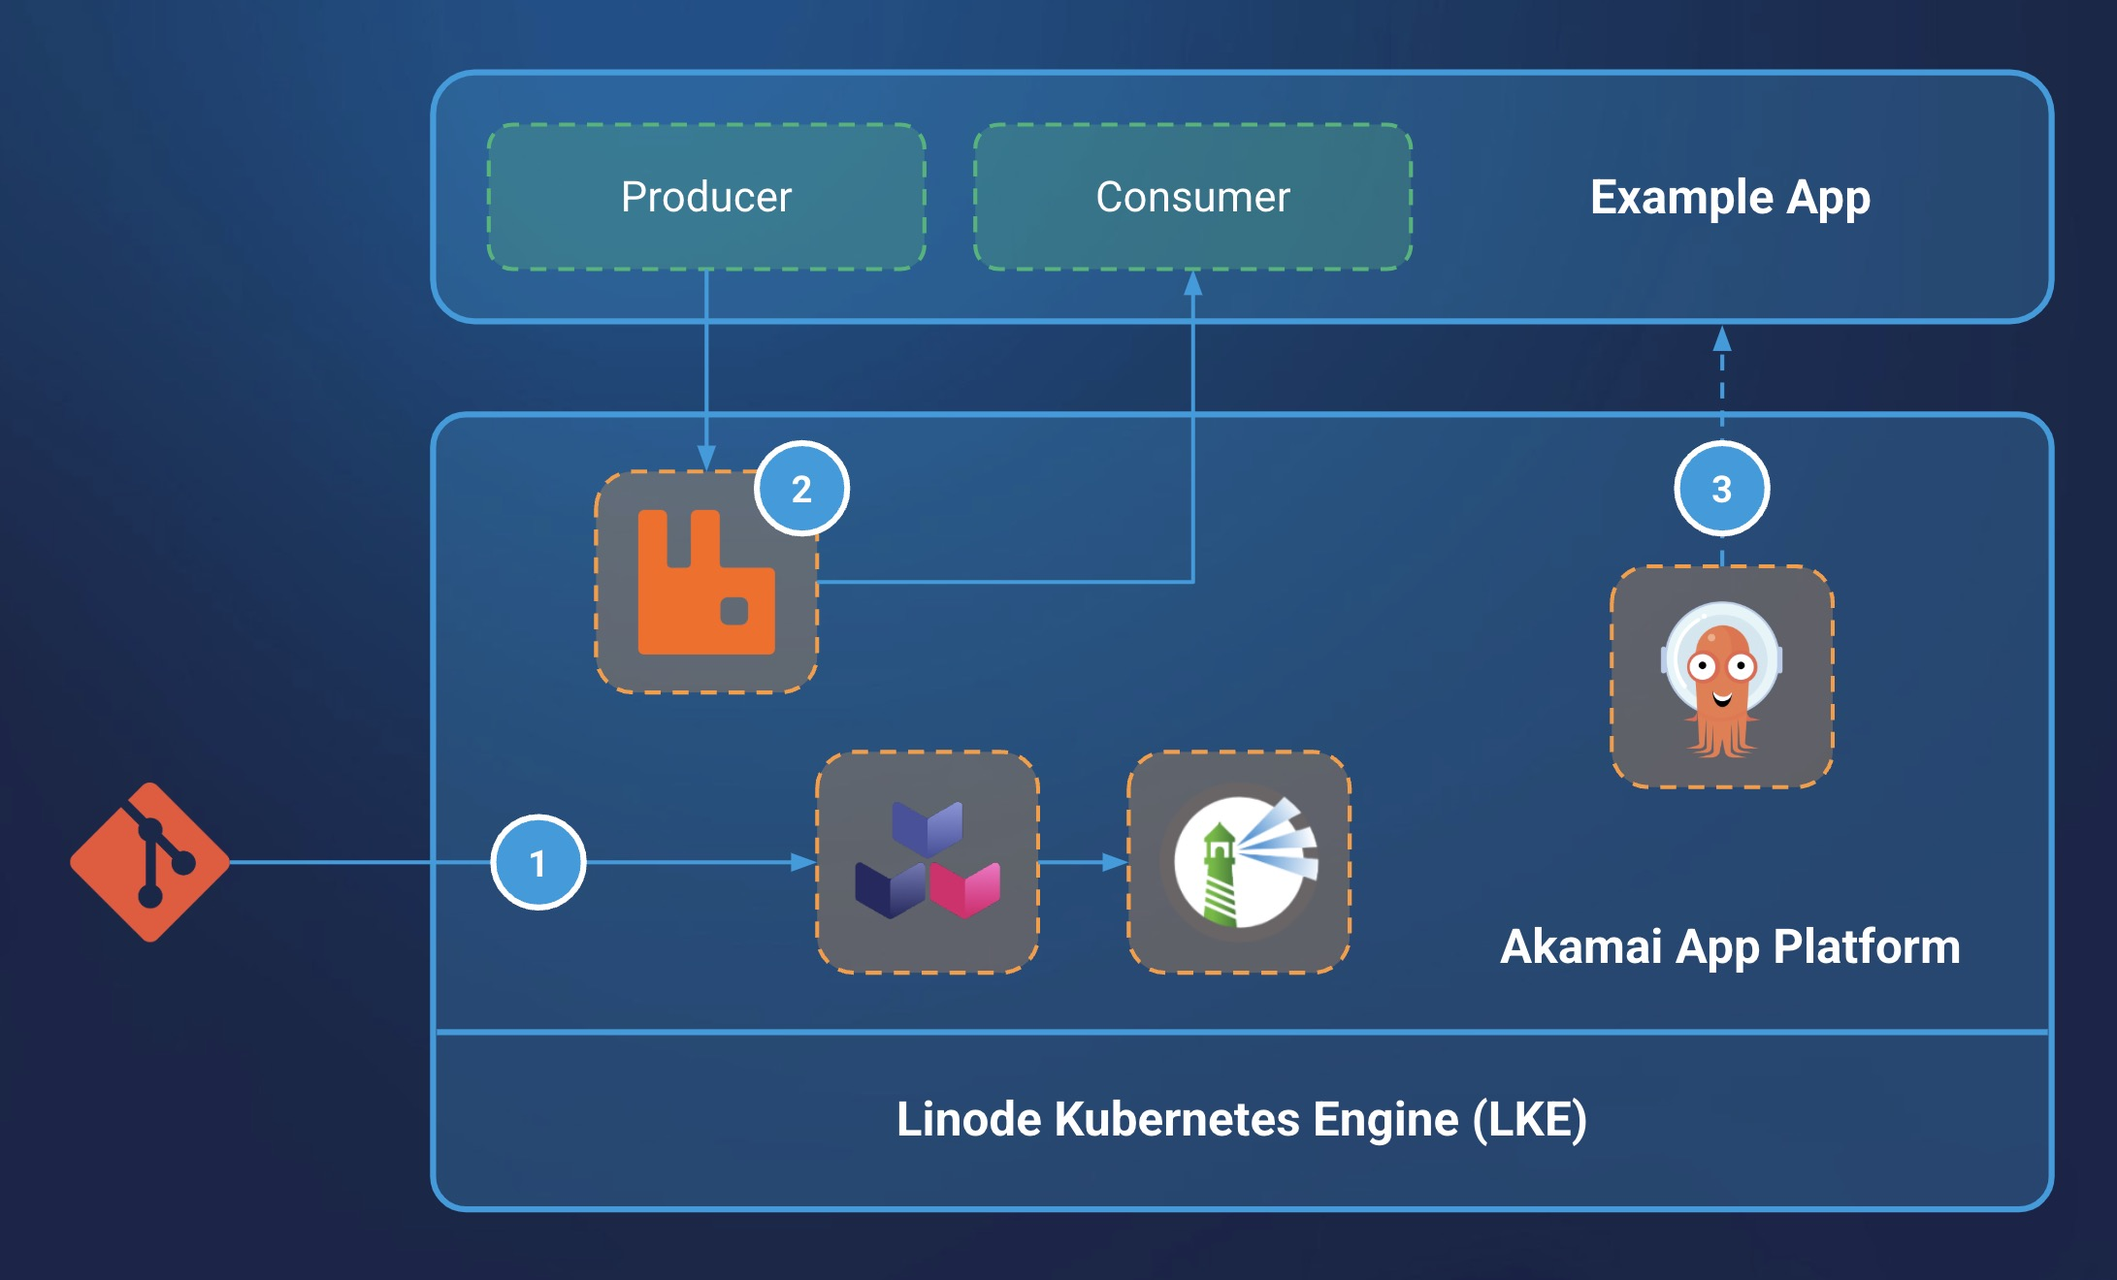
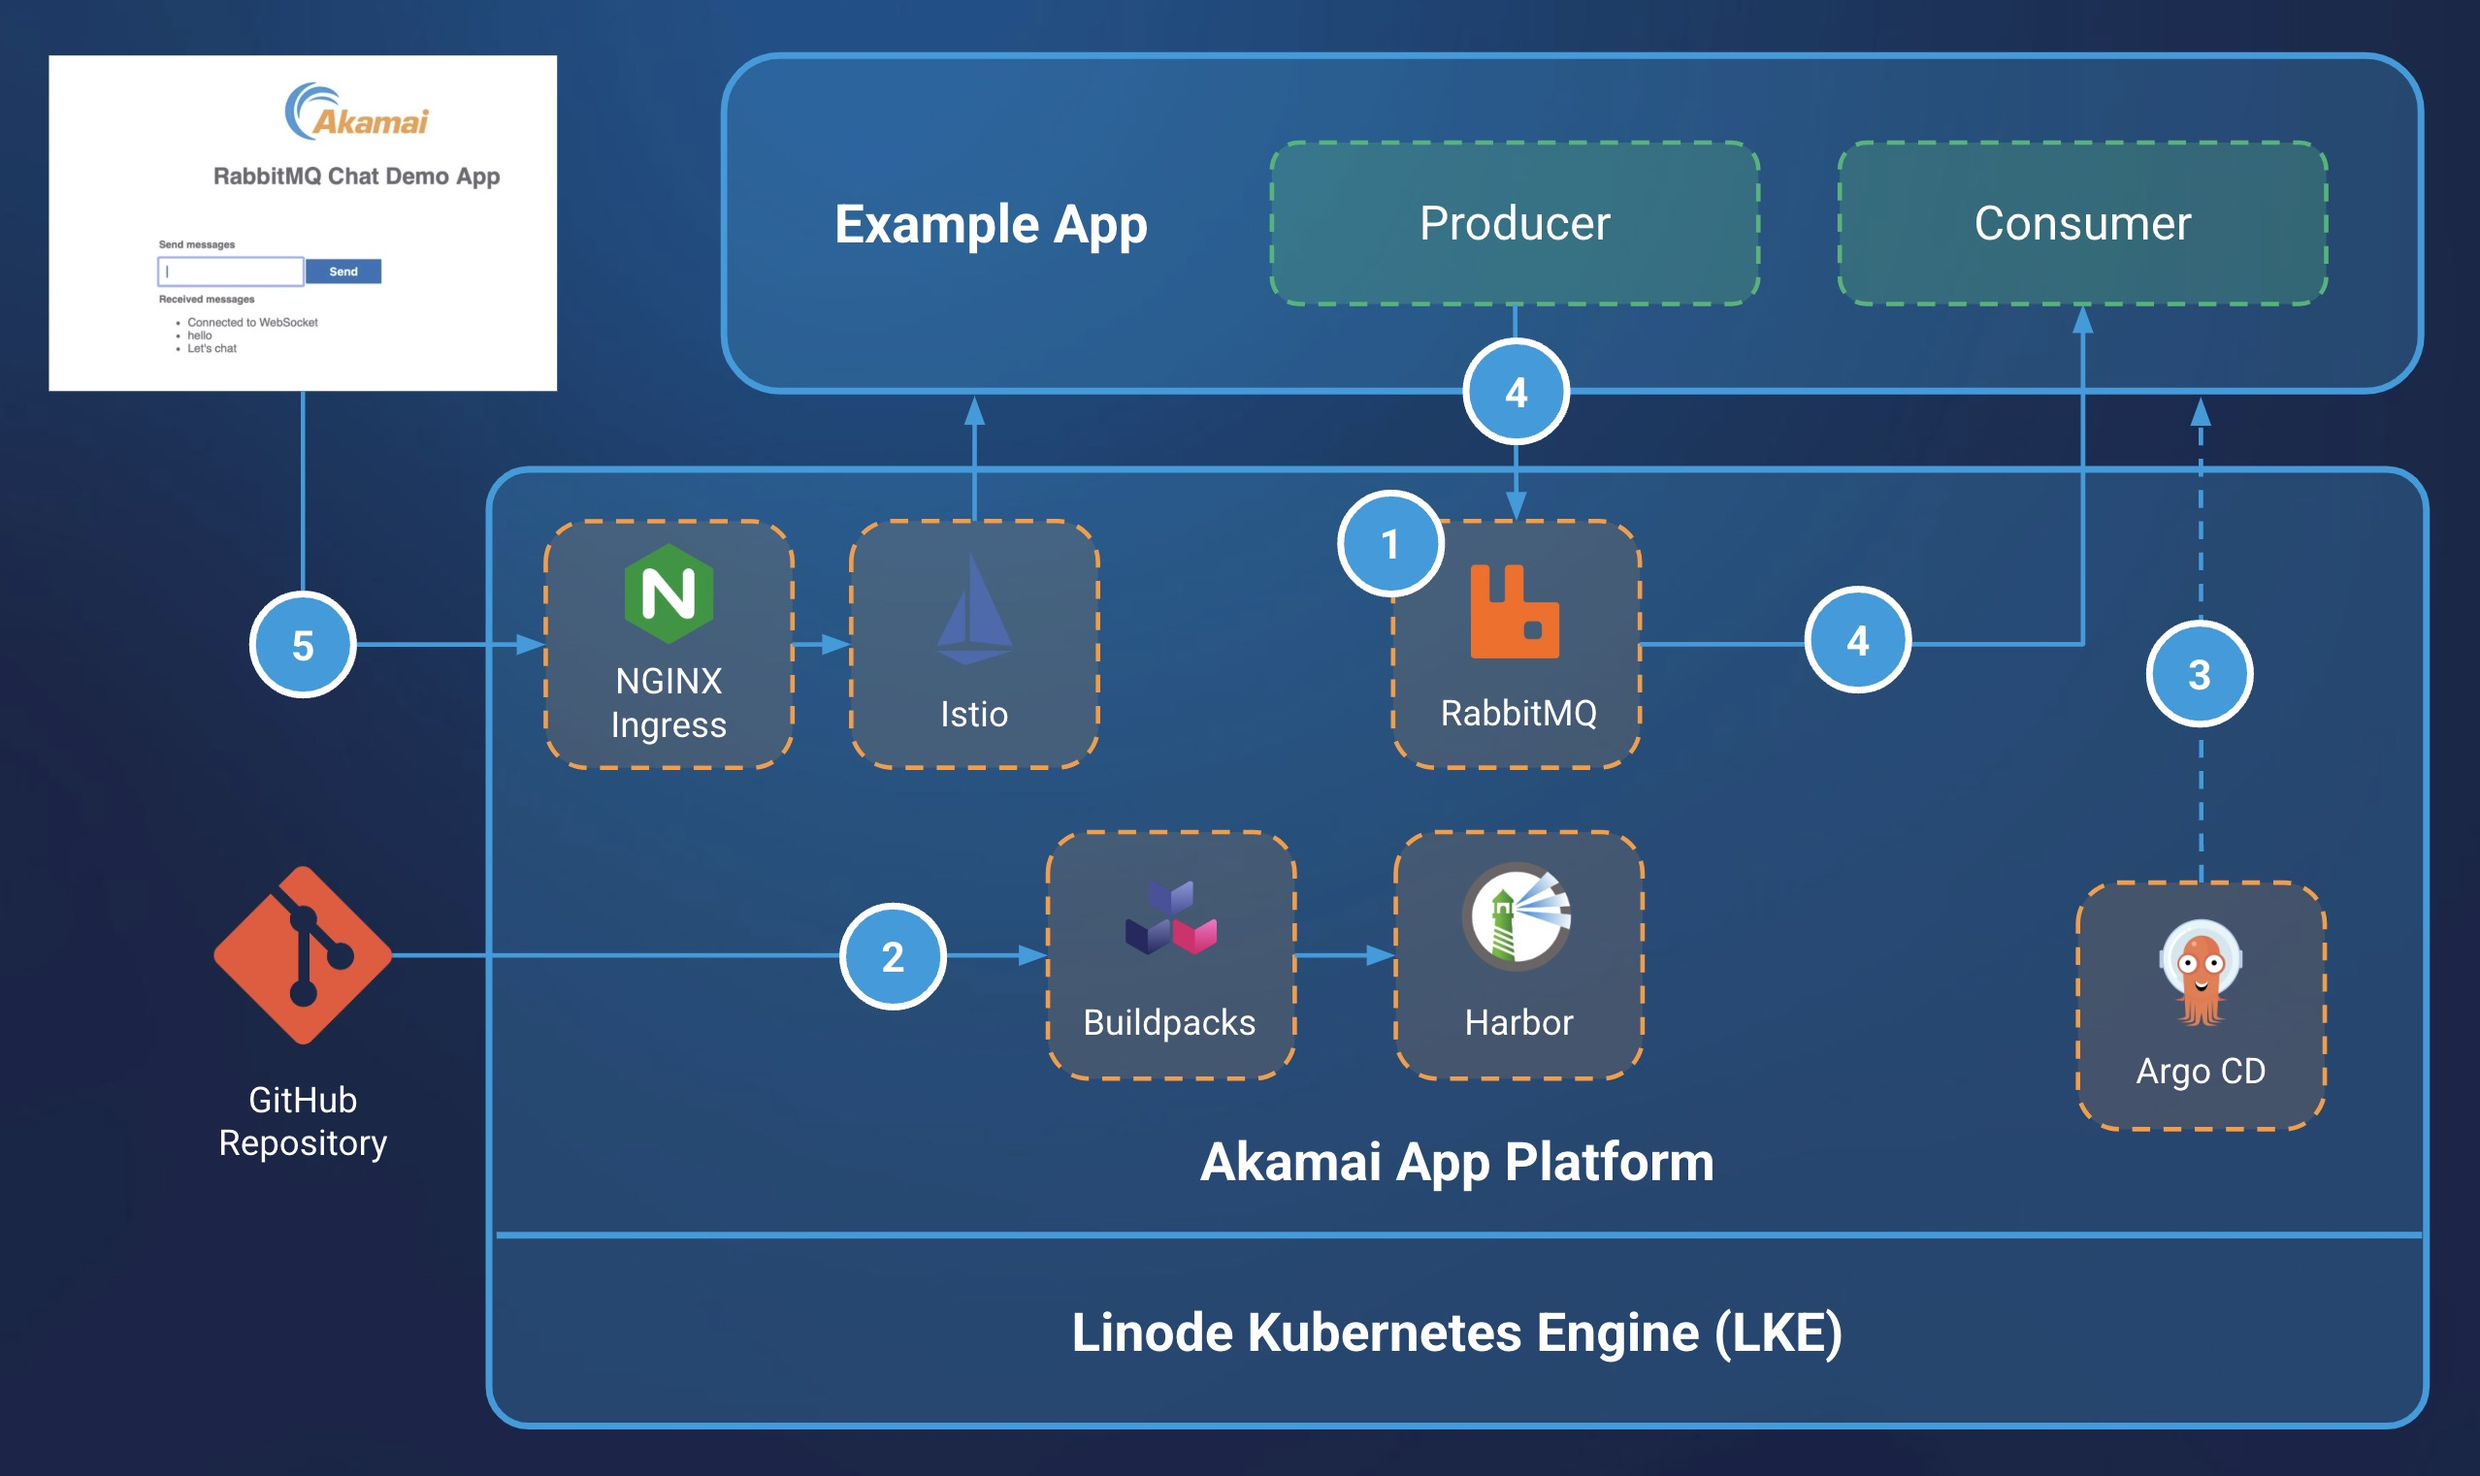
copy edits for diagram walkthrough, new diagram image

diff --git a/docs/guides/kubernetes/inter-service-communication-with-rabbitmq-and-apl/index.md b/docs/guides/kubernetes/inter-service-communication-with-rabbitmq-and-apl/index.md
@@ -34,11 +34,15 @@ To address this, RabbitMQ allows you to bind, or link, each service - email, SMS
 
 ![RabbitMQ on APL](APL-RabbitMQ-diagram-cropped.jpg)
 
-1.  A **buildpack** pulls and converts an app from GitHub repository into a containerized image. Harbor manages the containerized image.
+1.  A **RabbitMQ** cluster is created using the _RabbitMQ-Cluster_ Helm chart in the App Platform Catalog.
 
-2.  **RabbitMQ** manages incoming messages and sends them to a consumer app ready to ingest messages. The example Python web application in this guide is configured to both produce and consume messages for demo purposes.
+2.  A **Tekton** pipeline is created by App Platform that pulls the source code from a GitHub repository. A **Buildpacks** task is used to build the image and push it to the private registry in **Harbor**.
 
-3.  **Argo CD** monitors the status of the app against the desired state hosted in the GitHub repository.
+3.  An **Argo CD** application is created by App Platform to deploy the image built by Buildpacks.
+
+4.  The example Python web application sends messages to RabbitMQ's fanout exchange and binds to the exchange to receive the message.
+
+5.  The **Istio** virtual service and ingress are created by App Platform to expose the example Python application to the public internet via the NGINX ingress controller.
 
 ## Components
 
@@ -57,6 +61,8 @@ To address this, RabbitMQ allows you to bind, or link, each service - email, SMS
 -   [**Argo CD**](https://argo-cd.readthedocs.io/en/stable/): An open source, declarative, continuous delivery tool for Kubernetes. Argo CD uses the GitOps workflow to continuously monitor applications and compare their current states against desired states in a Git repository.
 
 -   [**Cloud Native Buildpacks**](https://buildpacks.io/): A buildpack is software used to take application source code and transform it into containerized images for building applications.
+
+-   [**Istio**](https://istio.io/): An open source service mesh used for securing, connecting, and monitoring microservices.
 
 ## Prerequisites
 
